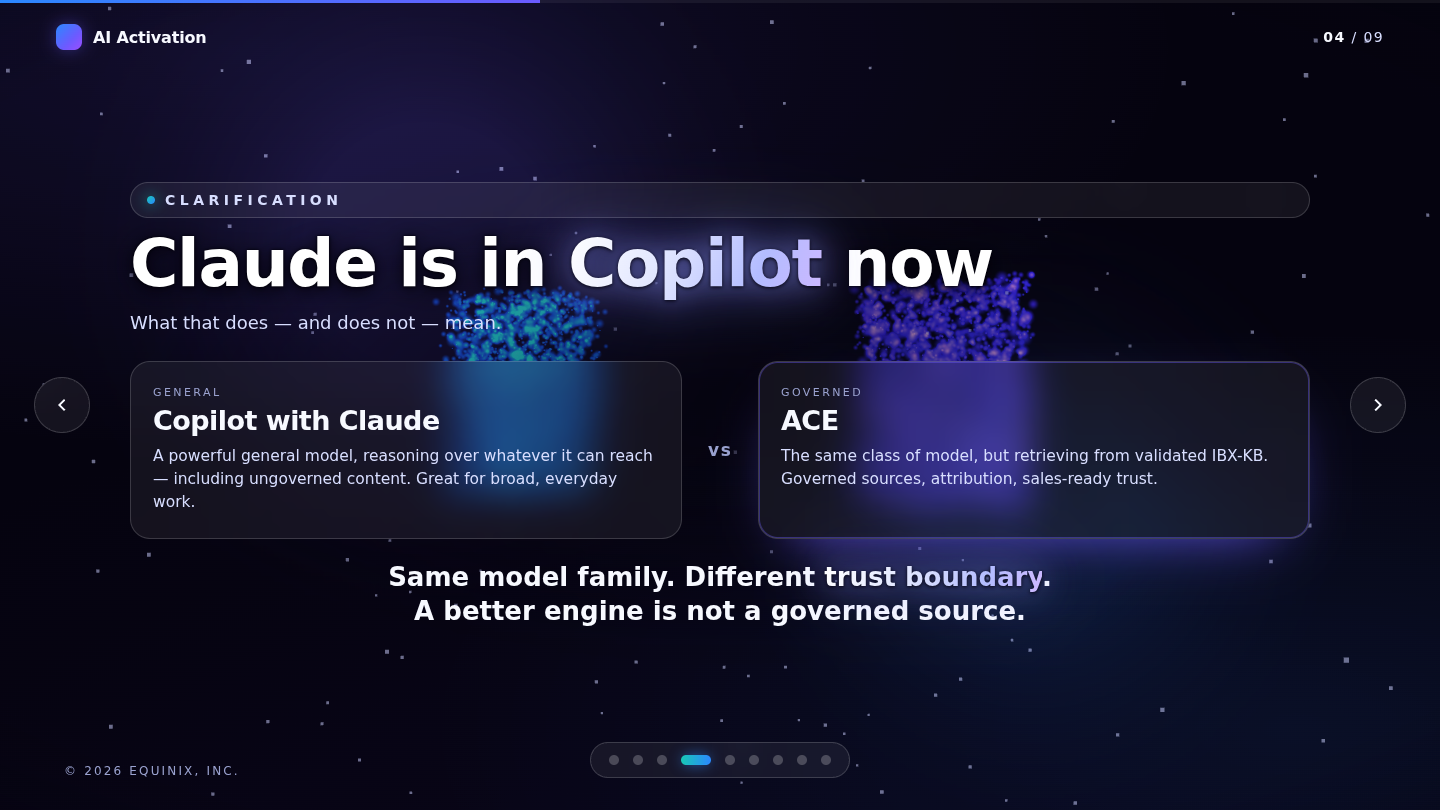
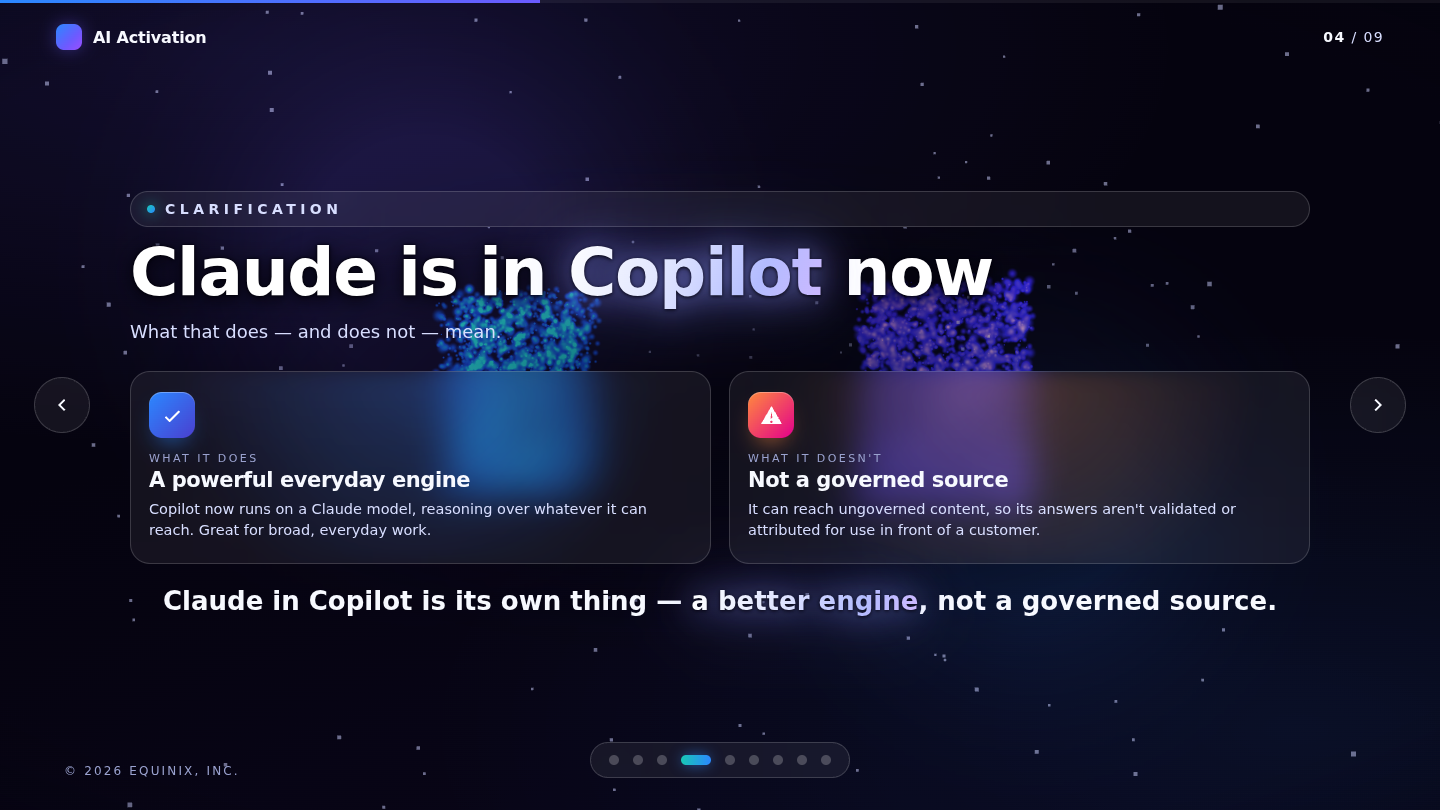
Reframe "Claude in Copilot" as its own thing (no ACE comparison)
Replace the side-by-side-with-ACE compare on slide 4 with a standalone
"what it does / what it doesn't" two-card layout about Copilot itself;
drop the vs and the ACE column. Update preview + README.

Claude-Session: https://claude.ai/code/session_01FRZWzFF1btedcNibAcTrn4

Changed region(s): [[0.0938, 0.216, 0.9062, 0.7716]]

diff --git a/index.html b/index.html
@@ -128,20 +128,21 @@
           <h2 class="reveal">Claude is in <span class="gradient-text">Copilot</span> now</h2>
           <p class="lede reveal">What that does — and does not — mean.</p>
         </div>
-        <div class="compare">
-          <div class="side pop">
-            <span class="tag">General</span>
-            <h3>Copilot with Claude</h3>
-            <p>A powerful general model, reasoning over whatever it can reach — including ungoverned content. Great for broad, everyday work.</p>
-          </div>
-          <div class="vs reveal">vs</div>
-          <div class="side gov pop">
-            <span class="tag">Governed</span>
-            <h3>ACE</h3>
-            <p>The same class of model, but retrieving from validated IBX-KB. Governed sources, attribution, sales-ready trust.</p>
-          </div>
+        <div class="cards c2">
+          <article class="card pop" style="--ic:linear-gradient(135deg,#2b88ff,#4a3fd0);--ac:#2b88ff;">
+            <div class="ic"><svg viewBox="0 0 24 24"><path d="M9 16.2l-3.5-3.5-1.4 1.4L9 19 20 8l-1.4-1.4z"/></svg></div>
+            <span class="tag">What it does</span>
+            <h3>A powerful everyday engine</h3>
+            <p>Copilot now runs on a Claude model, reasoning over whatever it can reach. Great for broad, everyday work.</p>
+          </article>
+          <article class="card pop" style="--ic:linear-gradient(135deg,#ff8a3d,#e3008c);--ac:#ff8a3d;">
+            <div class="ic"><svg viewBox="0 0 24 24"><path d="M12 2L1 21h22L12 2zm0 6l1 7h-2zm0 9.3a1.3 1.3 0 1 1 0 2.6 1.3 1.3 0 0 1 0-2.6z"/></svg></div>
+            <span class="tag">What it doesn't</span>
+            <h3>Not a governed source</h3>
+            <p>It can reach ungoverned content, so its answers aren't validated or attributed for use in front of a customer.</p>
+          </article>
         </div>
-        <p class="punch reveal">Same model family. Different <span class="gradient-text">trust boundary</span>. <br>A better engine is not a governed source.</p>
+        <p class="punch reveal">Claude in Copilot is its own thing — <span class="gradient-text">a better engine</span>, not a governed source.</p>
       </div>
       <div class="eq-credit">© 2026 Equinix, Inc.</div>
     </section>

diff --git a/README.md b/README.md
@@ -18,7 +18,7 @@ Each formation is chosen to match the slide's idea:
 | 1 | **What's New, What's Next** (cover) | glowing **sphere** |
 | 2 | **Meet ACE** | a bright, dense **core** |
 | 3 | **ACE gets deeper, and wider** | **three clusters** (IBX-KB · Sustainability · SharePoint) |
-| 4 | **Claude is in Copilot now** | a **split** into two clouds — the trust-boundary duality |
+| 4 | **Claude is in Copilot now** | a **split** into two clouds — what it does / what it doesn't |
 | 5 | **Getting access** | an orbital **ring** |
 | 6 | **AICVUE** | a scanning **lattice grid** |
 | 7 | **Publishing Pipeline** | a flowing **stream** behind Build › Validate › Publish › Field |